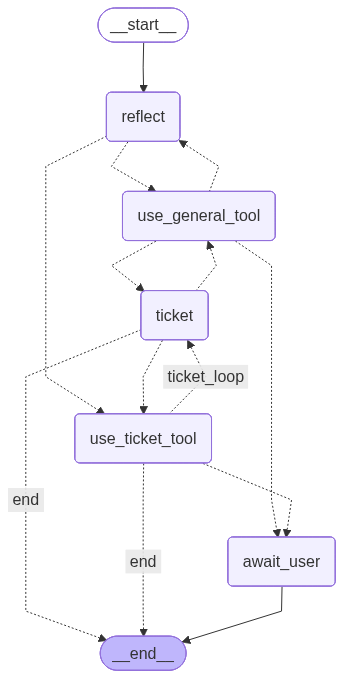
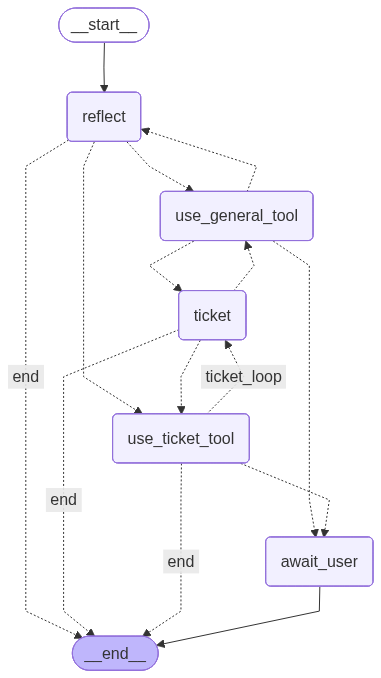
not pretty but working

diff --git a/agent/graph_structure/tools.py b/agent/graph_structure/tools.py
@@ -1,15 +1,17 @@
 from langchain_core.tools import tool, InjectedToolCallId
 from langchain_core.messages import SystemMessage, HumanMessage, AIMessage, ToolMessage
-from typing import List, Annotated, Dict, Literal, Optional
-from bs4 import BeautifulSoup
+from typing import List, Annotated, Dict, Literal, Optional, Any
 from langchain_core.documents import Document
 from langgraph.types import Command
 from langgraph.prebuilt import InjectedState, InjectedStore
+from langchain_core.prompts import ChatPromptTemplate
+import json
 
 
 from agent.rag_module import FaissSearch
 from agent.config import Settings
 from agent.model.model_init import get_embeddings
+from agent.utils.extract_params import ParamExtractor
 from contract.schemas import UserValidation
 
 KNOWLEDGE_BASE = FaissSearch(
@@ -91,7 +93,8 @@ def get_params_tool(
     parameters = {}
     for param in scenario_processed.parameters:
         parameters[param.name] = {
-            "info": f"Описание: {param.description}\nПримеры: {param.examples}\nПодсказка: {param.hint}\nЗапрос в стороннюю систему: {param.out_of_system}",
+            "info": f"{param._pretty_print()}",
+            "class_mode": param,
             "value": None,
         }
 
@@ -144,7 +147,7 @@ def validate_user_tool(
             result.action = "SELECT_INNER_CLIENT"
             result.user_validated = "in progress"
             result.message = f"""У тебя есть ФИО пользователя: {result.user.name}, его табельный номер: {result.user.empid}. 
-                            Обязательно уточни, от своего имени он ее заводит или нет."""
+                            Обязательно уточни, от своего имени он ее заводит или нет. Задай пользователю вопрос: 'Вы заводите заявку от своего имени?'"""
 
             return _create_update(result)
             # else:
@@ -153,23 +156,23 @@ def validate_user_tool(
             #                     Он заводит заявку от своего имени, далее провалидируй адрес."""
 
         case "in progress":
+            result.action = "SELECT_ASUN_BUILDING"
+            result.user_validated = True
             if hasattr(user, "workPlaceLocation"):
-                ...
+                result.message = f"""У тебя есть адрес, где находится пользователь: {result.user.workPlaceLocation}. 
+                            Обязательно уточни, на этом ли объекте у него случилась поломка. Задай пользователю вопрос: 'Вы находитесь по адресу {str(result.user.workPlaceLocation)}?'"""
             else:
-                ...
+                result.message = f"""У тебя нет адреса, гле находится пользователь. 
+                            Обязательно уточни, на каком объекте у него случилась поломка. Задай пользователю вопрос: 'По какому адресу вы находитесь?'"""
+
         case True:
             ...
 
 
 @tool
 def fill_params_tool(
-    # memory: Annotated[dict, InjectedStore] = None,
     state: Annotated[dict, InjectedState] = None,
     tool_call_id: Annotated[str, InjectedToolCallId] = None,
-    check_history: Annotated[
-        bool,
-        "Нужно ли проверять историю, если ранее проверка уже производилась, значение False",
-    ] = False,
 ) -> Command:
     """
     Используется сразу после выбора сценария.
@@ -177,9 +180,21 @@ def fill_params_tool(
     Проверяет, какие еще параметры нужно запросить у пользователя, чтобы точно заполнить заявку полность.
     """
     params_to_fill = state.get("ticket_data")
-    missing = [
-        param for param in params_to_fill if params_to_fill[param]["value"] is None
-    ]
+    exctractor = ParamExtractor(state.get("llm"), state)
+    data_from_history = exctractor.run_exctraction()
+    print("FROM HISTORY: ", data_from_history)
+
+    for param, value in data_from_history.items():
+        if not params_to_fill[param]["value"]:
+            params_to_fill[param]["value"] = value
+
+    if not state.get("missing_params"):
+        missing = [
+            param for param in params_to_fill if params_to_fill[param]["value"] is None
+        ]
+    else:
+        missing = state.get("missing_params")
+
     print(f"MISSING: {missing}")
 
     if missing == []:
@@ -190,13 +205,10 @@ def fill_params_tool(
                 "messages": [
                     ToolMessage(msg_text, tool_call_id=tool_call_id, name="finalize")
                 ],
-                "ticket_active": False,
+                "ticket_active": "complete",
                 "awaiting_param": None,
             },
         )
-
-    # if check_history:
-    #     params_before = _history(params_to_fill, memory)
 
     for param in missing:
         print(params_to_fill)
@@ -211,6 +223,7 @@ def fill_params_tool(
                 update={
                     "messages": [ToolMessage(msg_text, tool_call_id=tool_call_id)],
                     "awaiting_param": param,
+                    "missing_params": missing,
                 },
             )
 

diff --git a/agent/utils/extract_params.py b/agent/utils/extract_params.py
@@ -1,0 +1,74 @@
+import json
+from typing import Any, Dict, List
+from langchain_core.prompts import ChatPromptTemplate
+from langchain_core.messages import HumanMessage
+from langchain_core.language_models.chat_models import BaseChatModel
+
+from agent.retriever.data import ParameterSpecification
+from agent.model.model_init import get_llm
+
+
+class ParamExtractor:
+    def __init__(self, model, state: Dict[str, Any]):
+        self.model = model
+        self.state = state
+
+    def collect_user_texts(self) -> str:
+        msgs = self.state.get("messages", [])
+        chunks = [
+            str(getattr(m, "content", ""))
+            for m in msgs
+            if getattr(m, "type", "") == "human"
+            or m.__class__.__name__ == "HumanMessage"
+        ]
+        return "\n---\n".join([x for x in chunks if x])
+
+    def build_param_specs(self, ticket: Dict[str, Dict]) -> List[Dict[str, Any]]:
+        specs = []
+        for param, value_dict in ticket.items():
+            specs.append(value_dict["class_mode"]._pretty_print())
+
+        specs = "\n\n".join(specs)
+
+        return specs
+
+    def make_prompt(self, specs: str, history: str) -> ChatPromptTemplate:
+        sys = (
+            "Ты извлекаешь значения параметров из истории диалога, исходя из их описания и примеров заполнения, которые тебе представитт пользователь."
+            "Если пользователь не писал ничего похожего на значение какого-либо параметра, не записывай его в итоговый словарь."
+            "Верни ТОЛЬКО JSON вида: "
+            '{{"<param>": "value", "<param>": "value"}}'
+        )
+
+        human = (
+            f"Параметры заявки:\n" + specs + "\n\n"
+            f"История сообщений пользователя:\n{history}\n"
+        )
+        return ChatPromptTemplate.from_messages([("system", sys), ("human", human)])
+
+    def safe_json_parse(self, text: str) -> Dict[str, Any]:
+        start, end = text.find("{"), text.rfind("}")
+        if start == -1 or end == -1 or end < start:
+            raise ValueError("LLM did not return JSON")
+        return json.loads(text[start : end + 1])
+
+    def get_llm(self, state: Dict[str, Any]) -> BaseChatModel:
+
+        llm = get_llm()
+
+        return llm
+
+    def run_exctraction(self):
+        user_messages = self.collect_user_texts()
+        params_description = self.build_param_specs(self.state.get("ticket_data"))
+        prompt = self.make_prompt(params_description, user_messages)
+        llm = self.get_llm(self.state)
+
+        try:
+            resp = (prompt | llm).invoke({})
+            raw = getattr(resp, "content", resp)
+            data = self.safe_json_parse(raw if isinstance(raw, str) else str(raw))
+        except Exception as e:
+            data = {}
+
+        return data

diff --git a/agent/graph_structure/nodes.py b/agent/graph_structure/nodes.py
@@ -86,33 +86,6 @@ def _extract_question(state: AgentState) -> str | None:
     return data.get("question")
 
 
-def _sanitize_history_for_gigachat(
-    messages: Sequence[BaseMessage],
-) -> List[BaseMessage]:
-    """
-    ADDED: Удаляем 'сиротские' ToolMessage без парного AIMessage.tool_calls (иначе GigaChat 422).
-    """
-    valid_ids = set()
-    for m in messages:
-        if isinstance(m, AIMessage) and getattr(m, "tool_calls", None):
-            for tc in m.tool_calls:
-                _id = tc.get("id")
-                if _id:
-                    valid_ids.add(_id)
-
-    filtered: List[BaseMessage] = []
-    for m in messages:
-        if isinstance(m, ToolMessage):
-            if getattr(m, "tool_call_id", None) in valid_ids:
-                filtered.append(m)
-            else:
-                # пропускаем сироту
-                continue
-        else:
-            filtered.append(m)
-    return filtered
-
-
 def run_tools_and_wrap(ai_msg: AIMessage) -> list[ToolMessage]:
     """Выполнить все tool_calls из AIMessage и вернуть список ToolMessage."""
     tool_msgs: list[ToolMessage] = []
@@ -179,26 +152,35 @@ def ticket_reflect_node(state: AgentState, config: RunnableConfig, model):
     if state.get("awaiting_param") is not None:
         print("WE FILL PARAMS")
 
+        print("Now we check missing")
+        if state.get("missing_params"):
+
+            messages += [
+                f"\nСейчас нужно заполнить параметр {state.get('awaiting_param')} через user_interaction_tool. Далее вызови fill_param_tools(), так как  остались незаполненными другие необходимые параметры. Процесс заполнения заявки завершать НЕЛЬЗЯ!\n"
+            ]
+
         resp = model.bind_tools(TICKET_TOOLS + GENERAL_TOOLS).invoke(
             [SystemMessage(get_formatting_prompt())] + messages, config
         )
-        if resp == "None":
-            resp = None
 
         parameters_to_fill = state.get("ticket_data")
-        parameters_to_fill[state.get("awaiting_param")]["value"] = resp
+        # parameters_to_fill[state.get("awaiting_param")]["value"] = resp
+        print("OUR PARAMETERS FILLING: ", parameters_to_fill)
+        new_missing = state.get("missing_params")
+        if new_missing:
+            new_missing.pop(0)
         return {
             "messages": [resp],
             "ticket_active": True,
             "ticket_data": parameters_to_fill,
+            "missing_params": new_missing,
         }
 
-    else:
-        resp = model.bind_tools(TICKET_TOOLS + GENERAL_TOOLS).invoke(
-            [system] + messages, config
-        )
+    resp = model.bind_tools(TICKET_TOOLS + GENERAL_TOOLS).invoke(
+        [system] + messages, config
+    )
 
-        return {"messages": [resp]}
+    return {"messages": [resp]}
 
 
 def await_user_node(state: AgentState, *_):

diff --git a/chat.py b/chat.py
@@ -92,13 +92,21 @@ if user_text:
     must_wait_for_user = False
 
     for step in stream:
-        msg = step["messages"][-1]
+        if "messages" in step and step["messages"]:
+            msg = step["messages"][-1]
+            # msg может быть HumanMessage, AIMessage или SystemMessage
+            print(f"{msg.__class__.__name__}:", msg.content)
+        elif "events" in step:
+            print("Event:", step["events"])
+        else:
+            print("Step:", step)
 
         # Пропускаем дубли, если такие есть
         if msg in st.session_state.lc_messages:
             continue
 
         tool_name = getattr(msg, "name", "")
+        print(tool_name)
 
         # --- ВАЖНО: Ничего не печатаем для AIMessage (рефлексии/план/мысли) ---
         if isinstance(msg, AIMessage):

diff --git a/agent/retriever/data.py b/agent/retriever/data.py
@@ -37,11 +37,9 @@ class ParameterSpecification(BaseModel):
         return f"{self.description}\n\n{self.examples}"
 
     def _pretty_print(self):
-        result = f"Параметр {self.name}: {self.description}\n\n"
-        result += (
-            "Примеры того, как может пользователь написать или заполнить это поле:\n"
-        )
-        result += self.examples
+        result = f"Названине параметра для заполнения: {self.name}"
+        result += f"Описание: {self.description}\nПримеры: {self.examples}\nПодсказка: {self.hint}\nЗапрос в стороннюю систему: {self.out_of_system}"
+
         return result
 
 

diff --git a/agent/graph_structure/state.py b/agent/graph_structure/state.py
@@ -11,7 +11,7 @@ class AgentState(TypedDict):
 
     user_info: UserContext | UserContextNoLocation
     ticket_active: bool = False
-    ticket_data: bool | Literal["complete"]
+    ticket_data: bool | str
     awaiting_param: Optional[str]
 
     user_validated: bool | Literal["in progress"]
@@ -19,3 +19,4 @@ class AgentState(TypedDict):
         Literal["CREATE_TICKET", "SELECT_ASUN_BUILDING", "SELECT_INNER_CLIENT"]
     ]
     change_to_name: bool
+    missing_params: list | None = None

diff --git a/agent/rag_module.py b/agent/rag_module.py
@@ -61,7 +61,7 @@ class FaissSearch:
             node = doc.metadata["node"]
             if node not in exit_scenarios:
 
-                exit_scenarios.append({"id": doc.id, "scenario": node})
+                exit_scenarios.append({"id": doc.id, "scenario": node._pretty_print()})
 
         print(f"RESULTS: {top_k}")
 

diff --git a/agent/graph_structure/graph.py b/agent/graph_structure/graph.py
@@ -38,6 +38,7 @@ def get_graph(model):
         {
             "use_general_tool": "use_general_tool",
             "use_ticket_tool": "use_ticket_tool",
+            "end": END,
         },
     )
 
